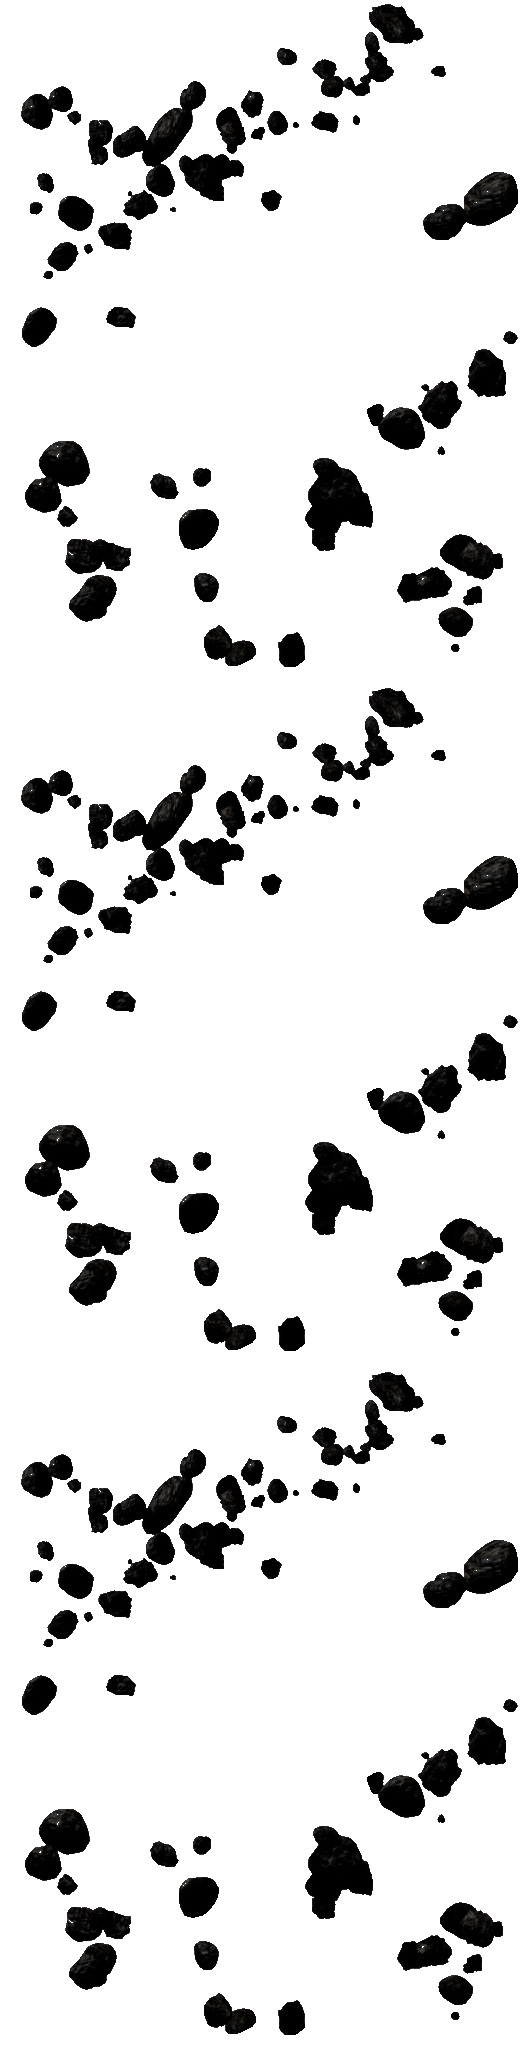
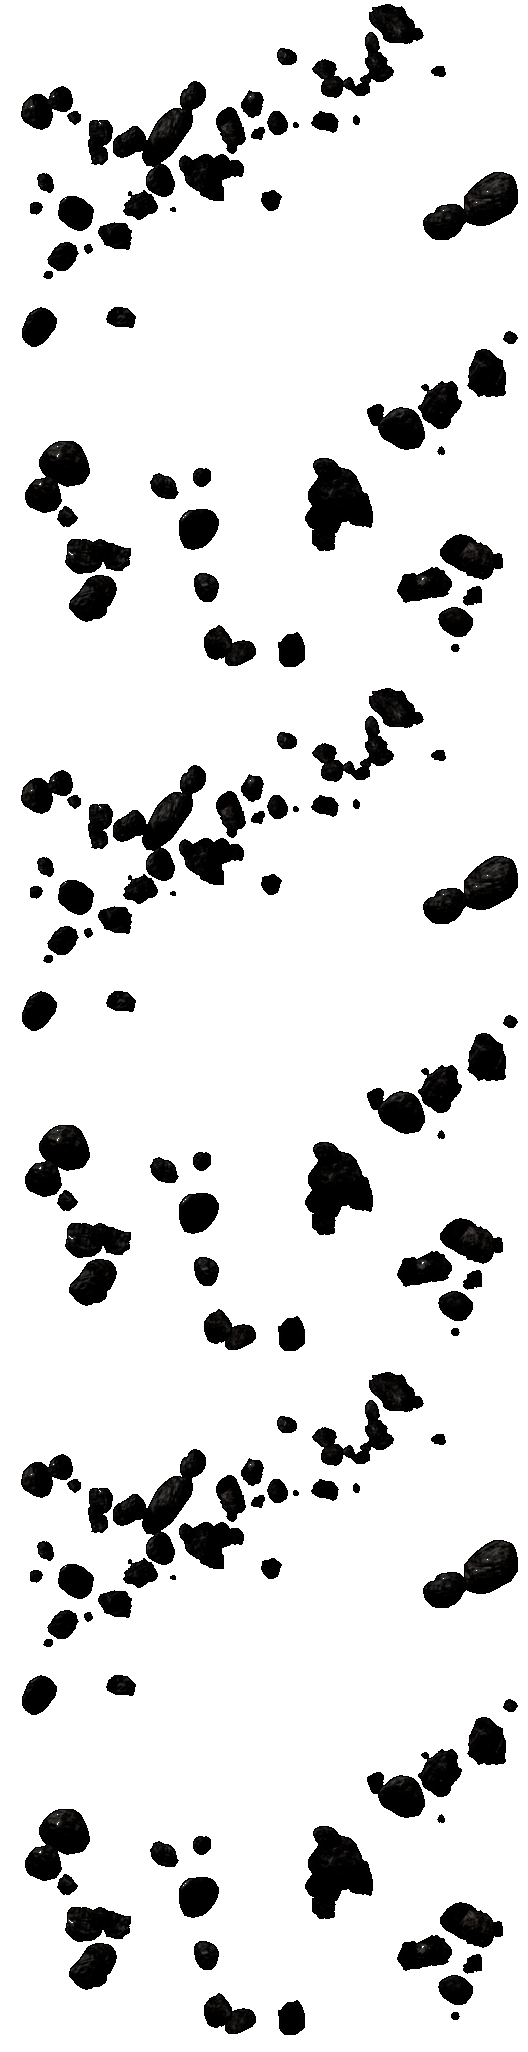
Mais parallax

diff --git a/gameplay.py b/gameplay.py
@@ -190,7 +190,7 @@ def play_game():
 
     nave2.side = 1
 
-    asteroid_bg1 : Background = Background(
+    asteroid_bg_far1: Background = Background(
         "assets/images/asteroids_bg_narrow.png",
         int(528 * BG_SCALE),
         int(2041 * BG_SCALE),
@@ -200,11 +200,24 @@ def play_game():
         nave1,
         Vector2(SIDEPANEL_W, TELA_W/2 - 16)
     )
-    asteroid_bg1.offset_multiplier = 0.2
+    asteroid_bg_far1.offset_multiplier = 0.1
+    
+    asteroid_bg1 : Background = Background(
+        "assets/images/asteroids_bg_narrow_close.png",
+        int(528 * BG_SCALE),
+        int(2041 * 3 * BG_SCALE),
+        [tabs.NAVE],
+        0,
+        32,
+        nave1,
+        Vector2(SIDEPANEL_W, TELA_W/2 - 16)
+    )
+    asteroid_bg1.offset_multiplier = 0.25
     asteroid_bg1.pos.y = TELA_H - asteroid_bg1.get_height()
     asteroid_bg1.pos.x = 30
+    
 
-    asteroid_bg2 : Background = Background(
+    asteroid_bg_far2 : Background = Background(
         "assets/images/asteroids_bg_narrow.png",
         int(528 * BG_SCALE),
         int(2041 * BG_SCALE),
@@ -214,7 +227,21 @@ def play_game():
         nave2,
         Vector2(TELA_W/2, TELA_W)
     )
-    asteroid_bg2.offset_multiplier = 0.2
+    asteroid_bg_far2.offset_multiplier = 0.1
+    asteroid_bg_far2.pos.y = TELA_H - asteroid_bg_far2.get_height() + 200 # numero aleatorio para variar
+    asteroid_bg_far2.pos.x = TELA_W/2
+
+    asteroid_bg2 : Background = Background(
+        "assets/images/asteroids_bg_narrow_close.png",
+        int(528 * BG_SCALE),
+        int(2041 * 3 * BG_SCALE),
+        [tabs.NAVE],
+        1,
+        32,
+        nave2,
+        Vector2(TELA_W/2, TELA_W)
+    )
+    asteroid_bg2.offset_multiplier = 0.25
     asteroid_bg2.pos.y = TELA_H - asteroid_bg2.get_height() + 200 # numero aleatorio para variar
     asteroid_bg2.pos.x = TELA_W/2
 
